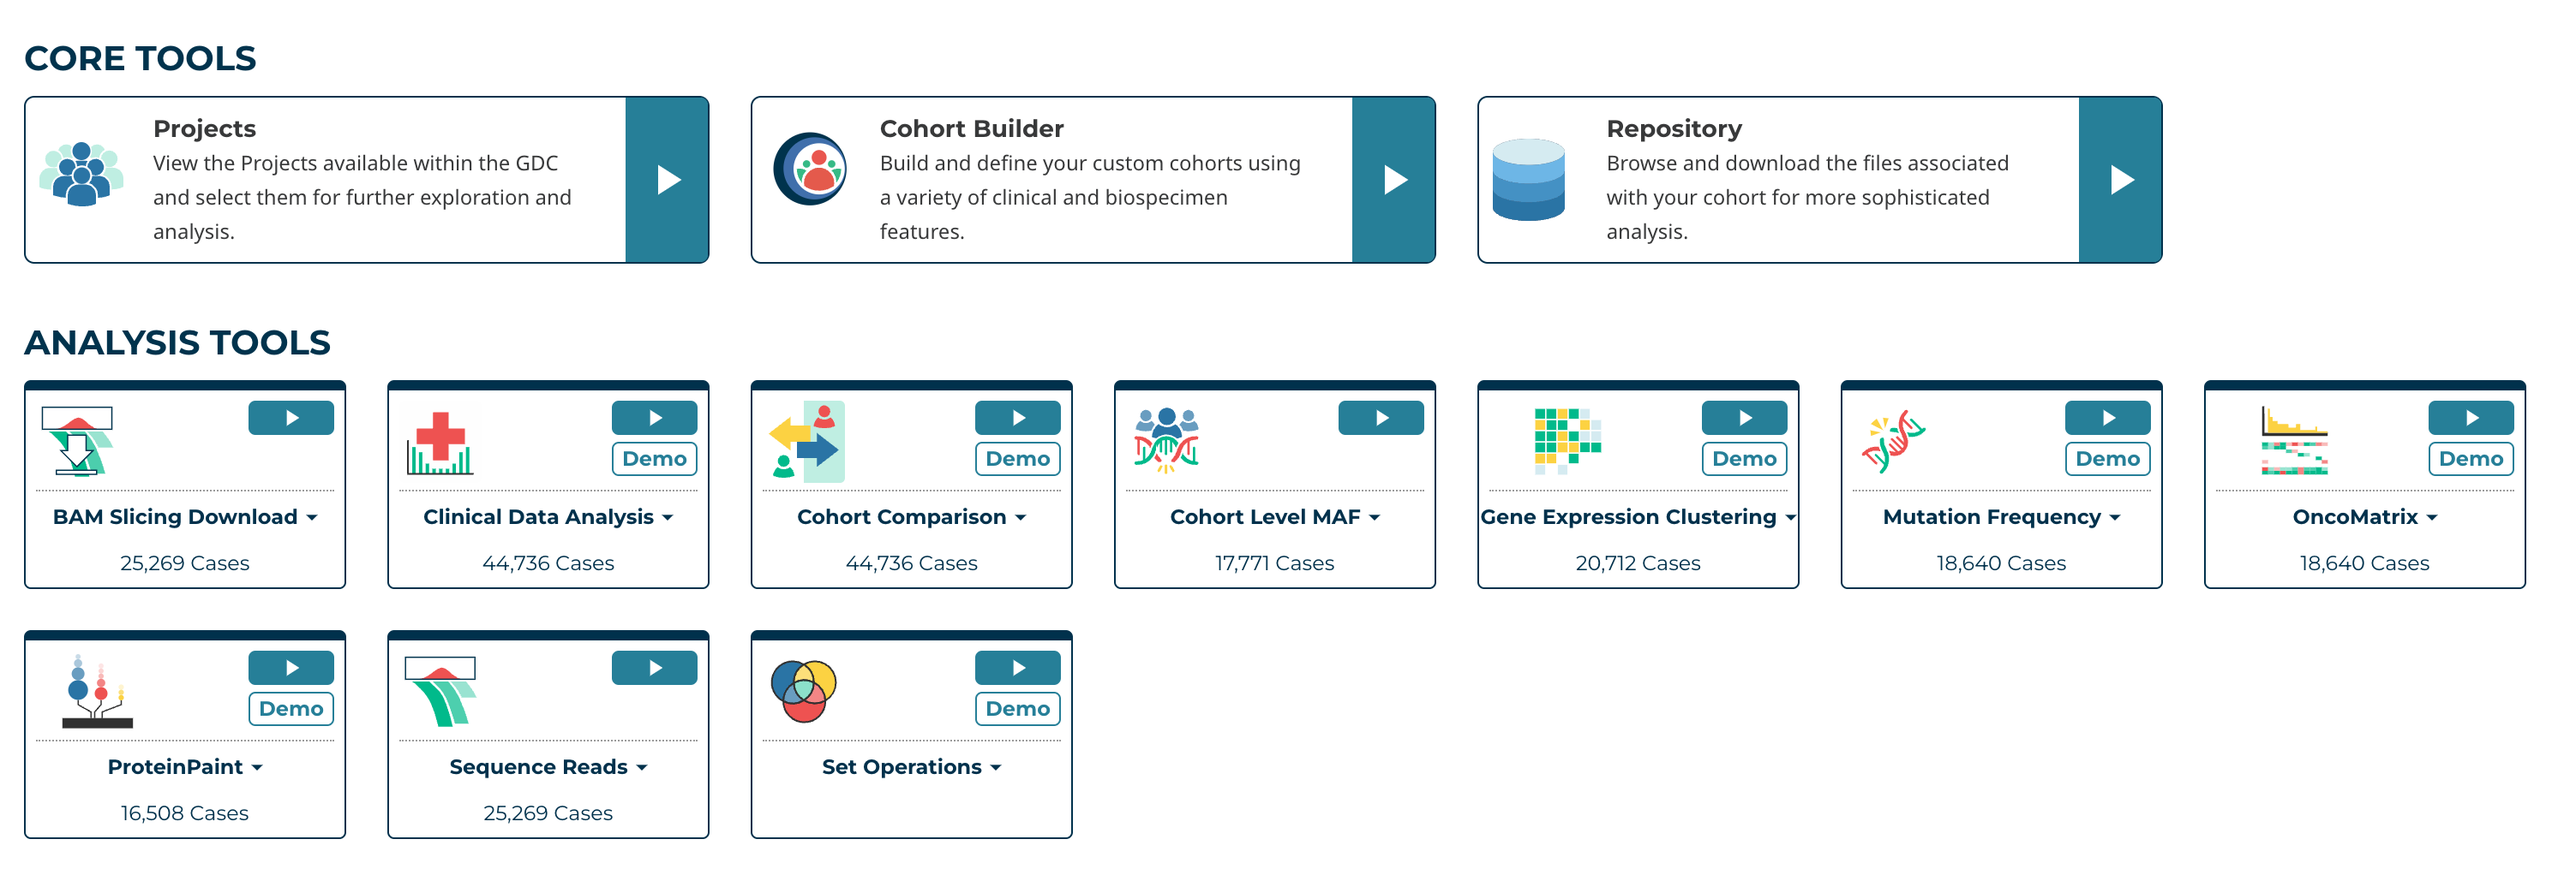
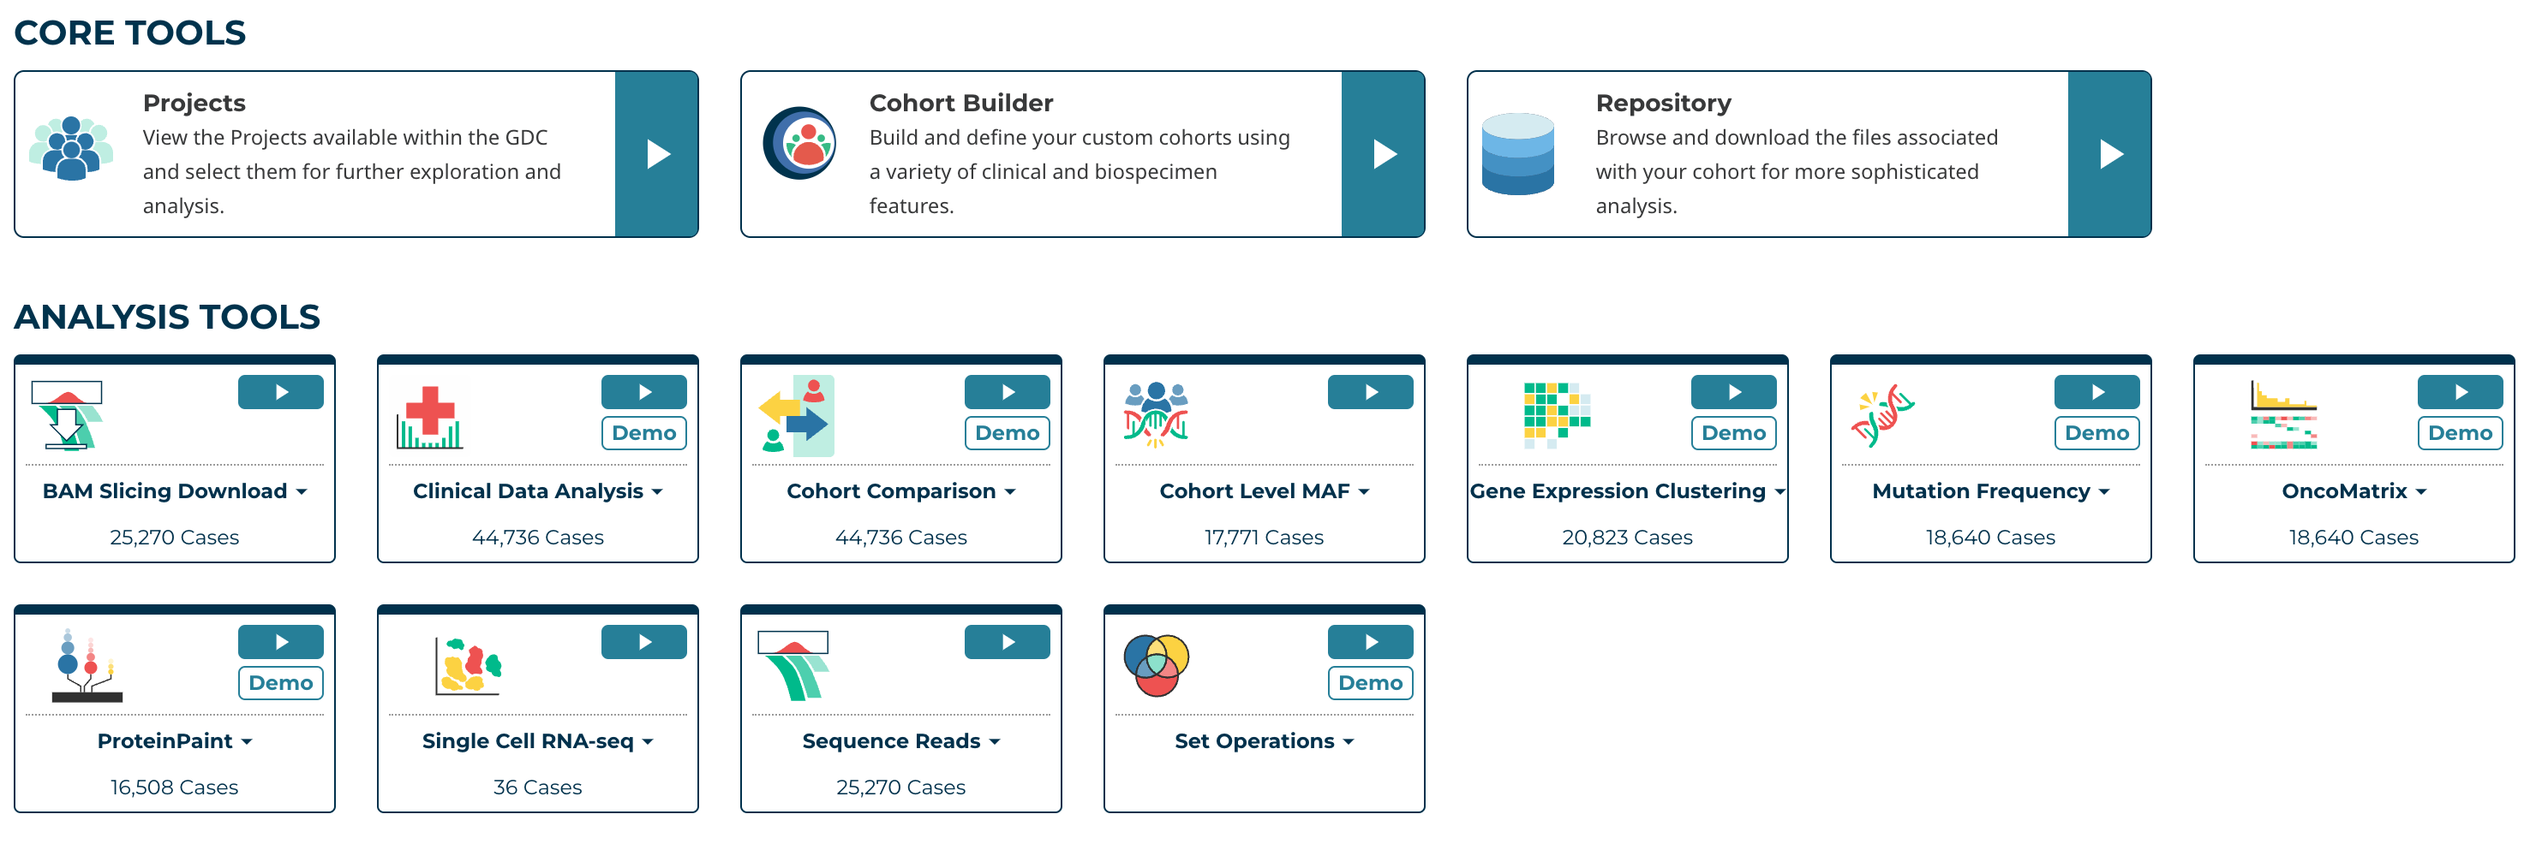
screenshot updates plus minor text changes for roentgen

diff --git a/docs/Data_Portal/Users_Guide/Repository.md b/docs/Data_Portal/Users_Guide/Repository.md
@@ -125,13 +125,13 @@ To download files in the Cart, select the Download Cart button and choose either
 
 ### Additional Data Download
 
-Additional data can be downloaded from the Cart page using the Download Associated Data button at the top of the page and choosing one of the available options.
+Additional data can be downloaded from the Cart page by using the buttons available at the top of the page.
 
-[![Cart Metadata](images/CartAssociatedData.png)](images/CartAssociatedData.png "Click to see the full image.")
+[![Cart Additional Data](images/CartAdditionalData.png)](images/CartAdditionalData.png "Click to see the full image.")
 
-* __Clinical:__ TSV / Clinical: JSON - This includes all clinical information from the cases that are associated with the files (available as TSV or JSON)
 * __Biospecimen:__ TSV / Biospecimen: JSON - This includes all biospecimen information from the cases that are associated with the files (available as TSV or JSON).
-* __Sample Sheet:__ A TSV with commonly-used elements associated with each file, such as sample barcode and sample type.
+* __Clinical:__ TSV / Clinical: JSON - This includes all clinical information from the cases that are associated with the files (available as TSV or JSON)
+* __Sample Sheet:__ A TSV with commonly-used elements associated with each file, such as tissue type and tumor descriptor.
 * __Metadata:__ This includes all of the metadata associated with each and every file in the cart.  Note that this file is only available in JSON format and may take several minutes to download.
 
 ## File Summary Page ##

diff --git a/docs/Data_Portal/Users_Guide/clinical_data_analysis.md b/docs/Data_Portal/Users_Guide/clinical_data_analysis.md
@@ -27,6 +27,7 @@ The clinical fields are grouped into these categories:
 * __Diagnosis:__ Data from the investigation, analysis, and recognition of the presence and nature of the disease, condition, or injury from expressed signs and symptoms; also, the scientific determination of any kind; the concise results of such an investigation.
 * __Treatment:__ Records of the administration and intention of therapeutic agents provided to a patient to alter the course of a pathologic process.
 * __Exposure:__ Clinically-relevant patient information not immediately resulting from genetic predispositions.
+* __Other Clinical Attribute:__  Clinical attributes extraneous to other specified clinical categories.
 
 ## Exploring Clinical Card Visualizations
 

diff --git a/docs/Data_Portal/Users_Guide/cohort_builder.md b/docs/Data_Portal/Users_Guide/cohort_builder.md
@@ -70,7 +70,7 @@ As a search term is entered, the Cohort Builder Search feature will display a li
 
 [![Cohort Builder Search Results](images/CohortBuilderSearchResults.png)](images/CohortBuilderSearchResults.png "Image of Cohort Builder Search Results. Click to see the full image.")
 
-When a result is selected, the card corresponding to the selected result will be displayed.
+When a result is selected, the card corresponding to the selected result will be displayed. If there are values that match the search term, the card's search field will be automatically populated with the search term.
 
 ## Closing the Cohort Builder
 

diff --git a/docs/Data_Portal/Users_Guide/analysis_center.md b/docs/Data_Portal/Users_Guide/analysis_center.md
@@ -36,6 +36,7 @@ The 'Analysis Tools' section contains the tools available for specific analyses 
 * [ProteinPaint](proteinpaint_lollipop.md)
 * [Sequence Reads](proteinpaint_bam.md)
 * [Set Operations](set_operations.md)
+* [Single Cell RNA-seq](scRNA.md)
 
 Each can be launched by clicking the Play buttons in each of the tool cards.
 
